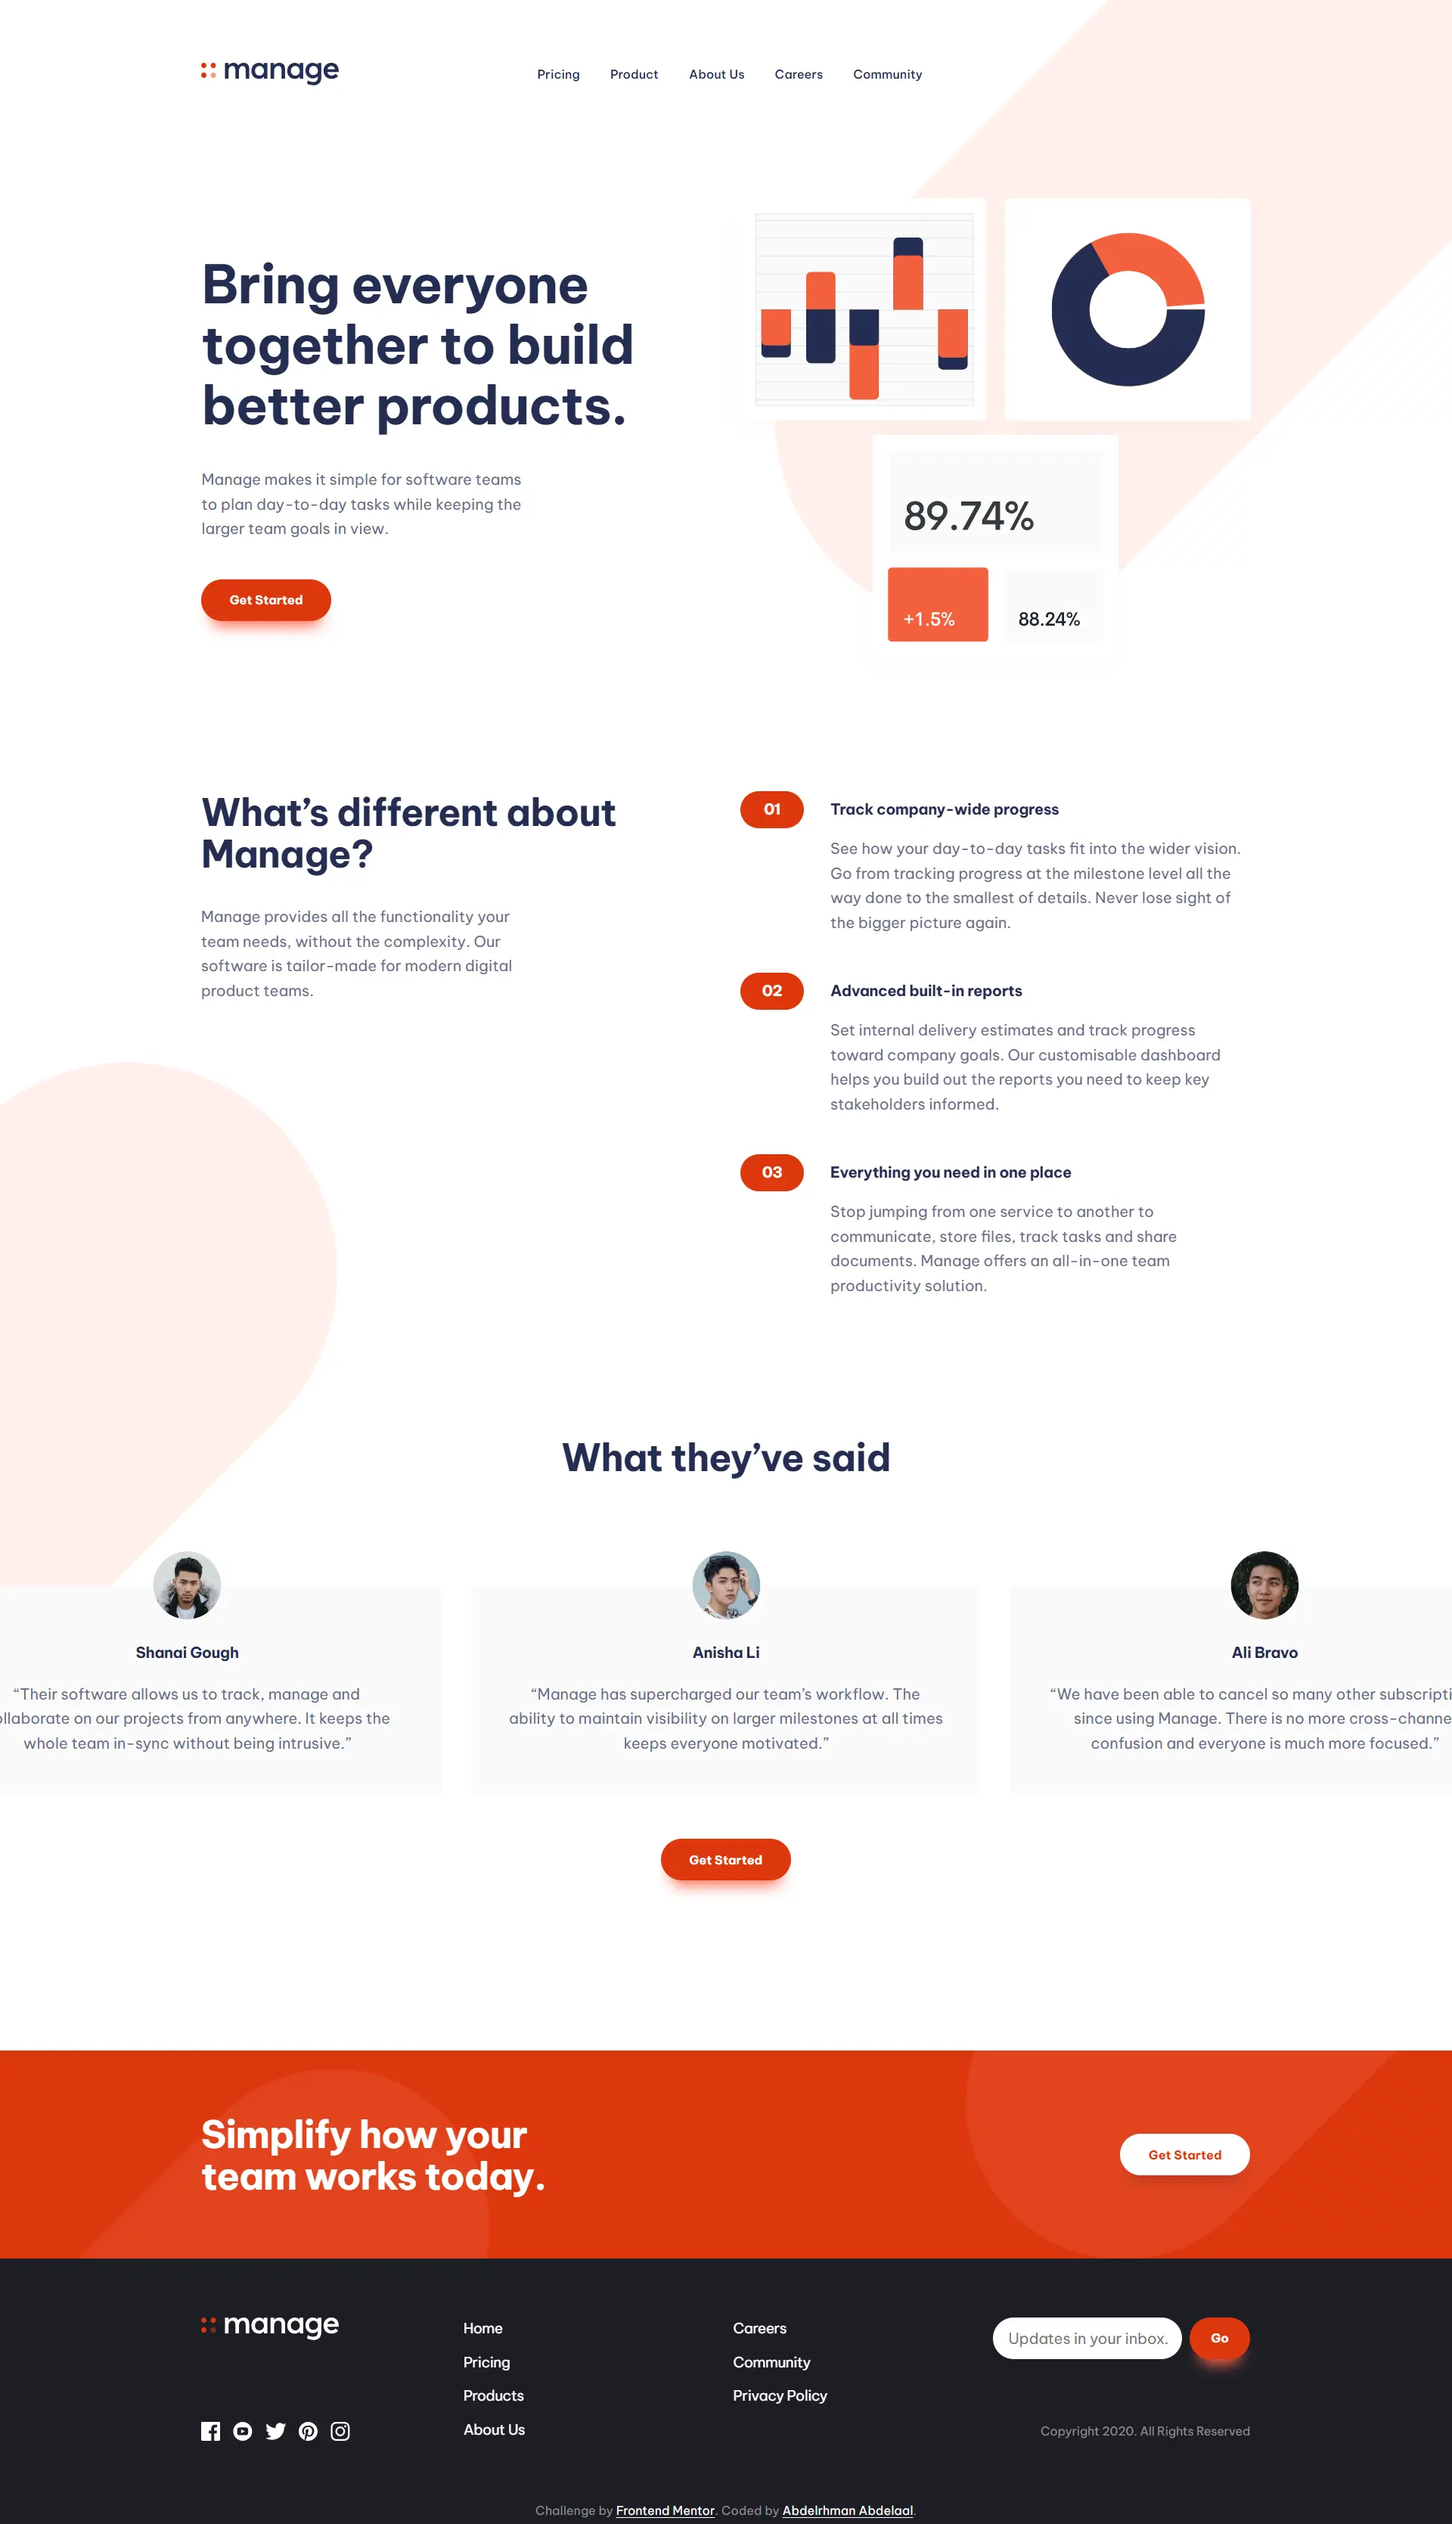
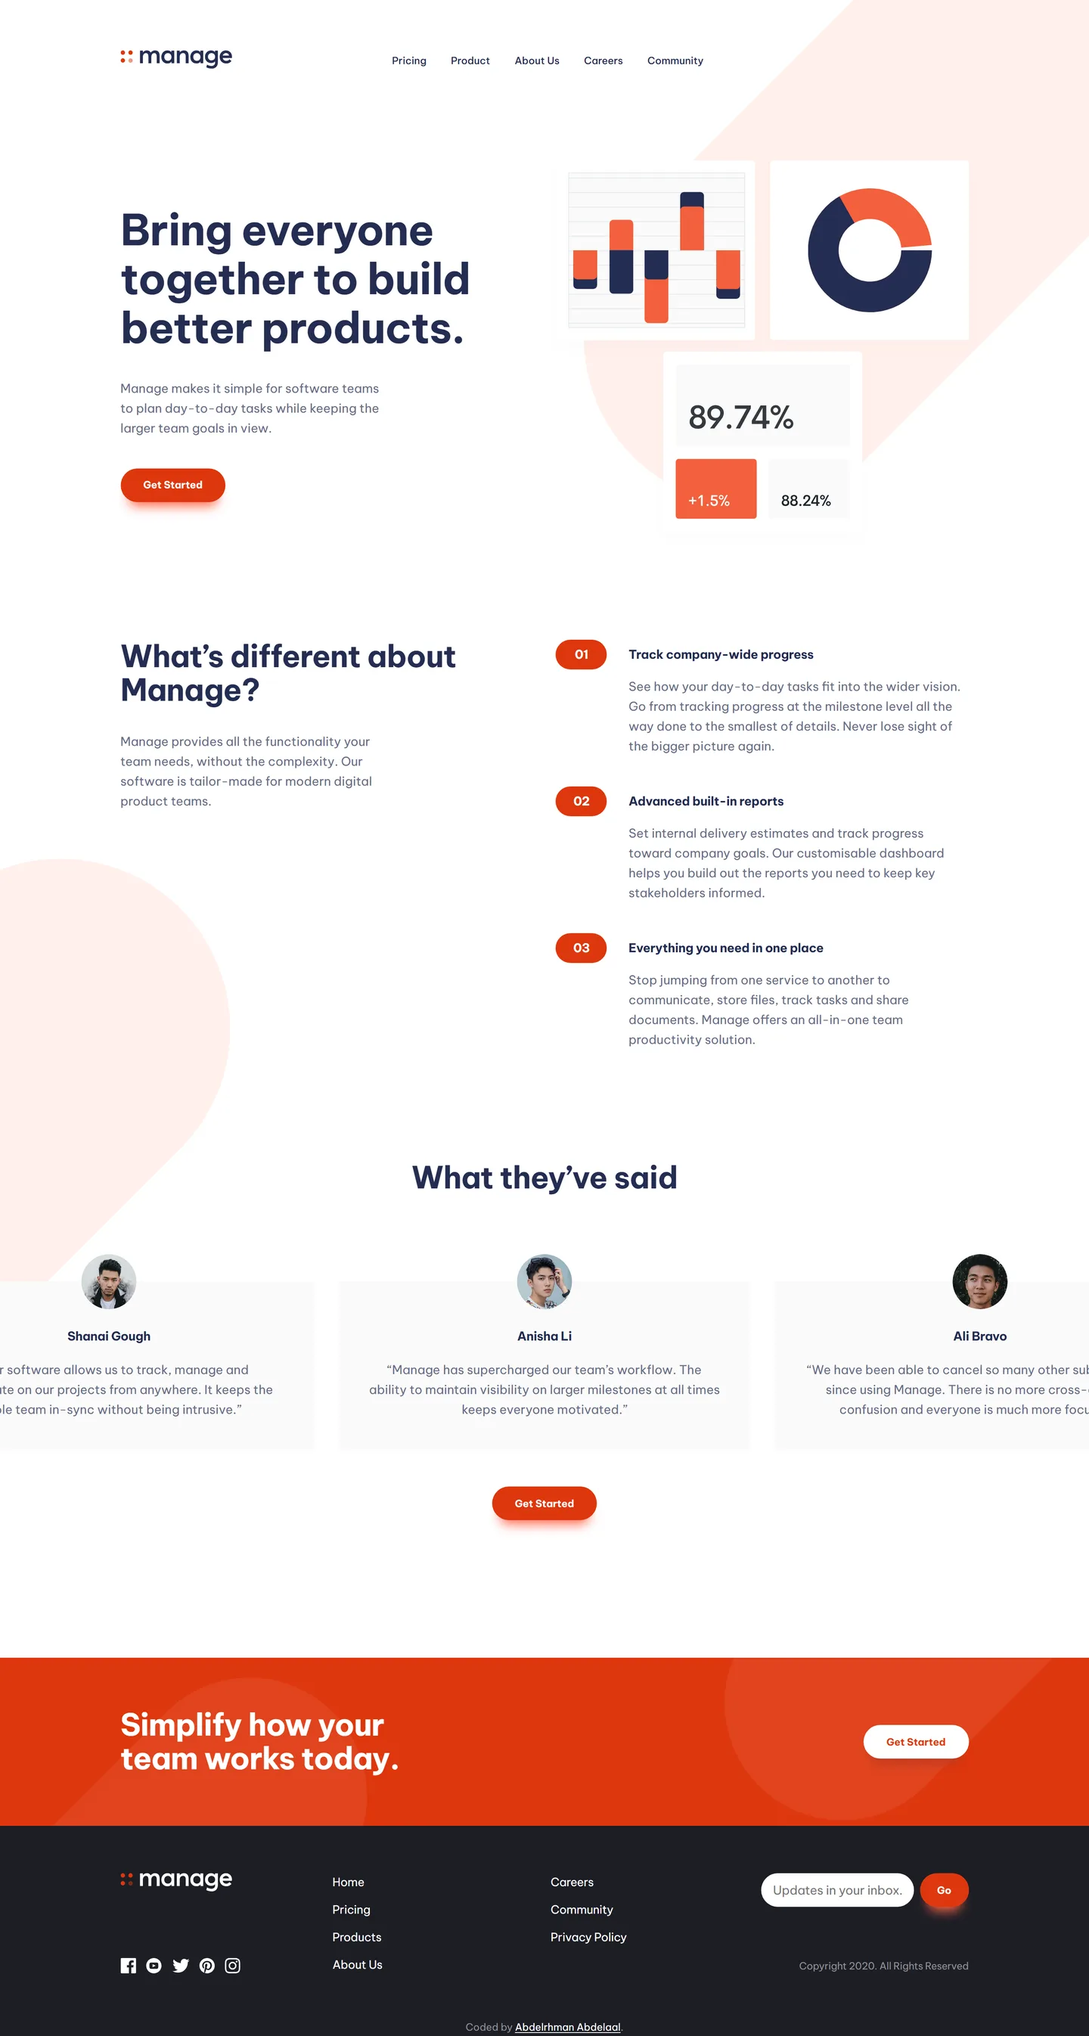
fix: update footer links and remove Netlify mirror reference

diff --git a/src/components/layout/footer.tsx b/src/components/layout/footer.tsx
@@ -54,16 +54,7 @@ export default function Footer() {
       </div>
 
       <p className="v-container pb-0.5 text-center text-label text-muted-inverse">
-        Challenge by{" "}
-        <a
-          href="https://www.frontendmentor.io?ref=challenge"
-          target="_blank"
-          rel="noopener noreferrer"
-          className="text-white underline underline-offset-2 hover:no-underline"
-        >
-          Frontend Mentor
-        </a>
-        . Coded by{" "}
+        Coded by{" "}
         <a
           href="https://www.linkedin.com/in/abdelrhman-vanta/"
           target="_blank"

diff --git a/README.md b/README.md
@@ -22,7 +22,6 @@ This is a solution to the [Manage landing page challenge on Frontend Mentor](htt
 
 - Solution URL: [GitHub](https://github.com/MrBlackvanta/manage-landing-page)
 - Live Site URL: [Cloudflare](https://manage-landing-page.abdelrhman-ahmed8881.workers.dev)
-- Mirror: [Netlify](https://vanta-manage-landing-page.netlify.app)
 
 ## My process
 
@@ -147,6 +146,6 @@ will not match the design JPGs.
 
 ## Author
 
-- UpWork - [Abdelrhman Abdelaal](https://upwork.com/freelancers/~01f0a9479696b61f49)
+- UpWork - [Abdelrhman Abdelaal](https://www.upwork.com/freelancers/mrblackvanta)
 - Frontend Mentor - [@MrBlackvanta](https://www.frontendmentor.io/profile/MrBlackvanta)
 - LinkedIn - [Abdelrhman Abdelaal](https://www.linkedin.com/in/abdelrhman-vanta/)
